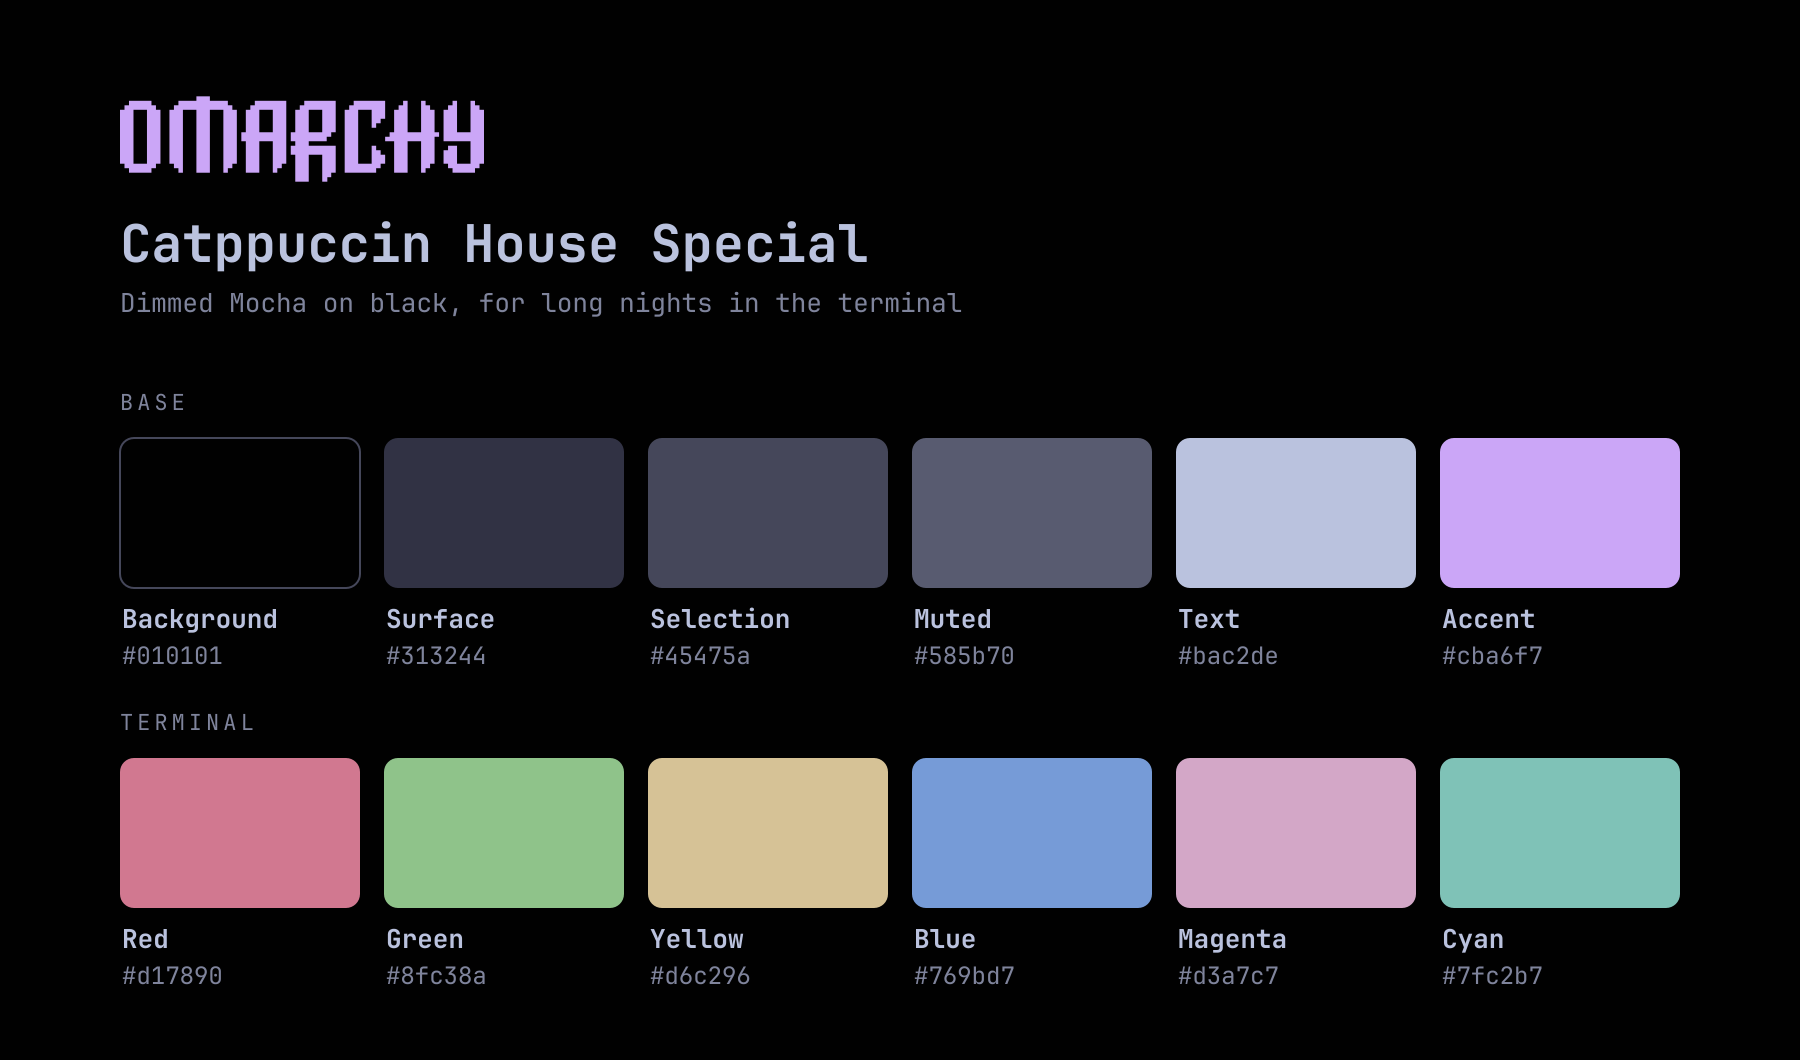
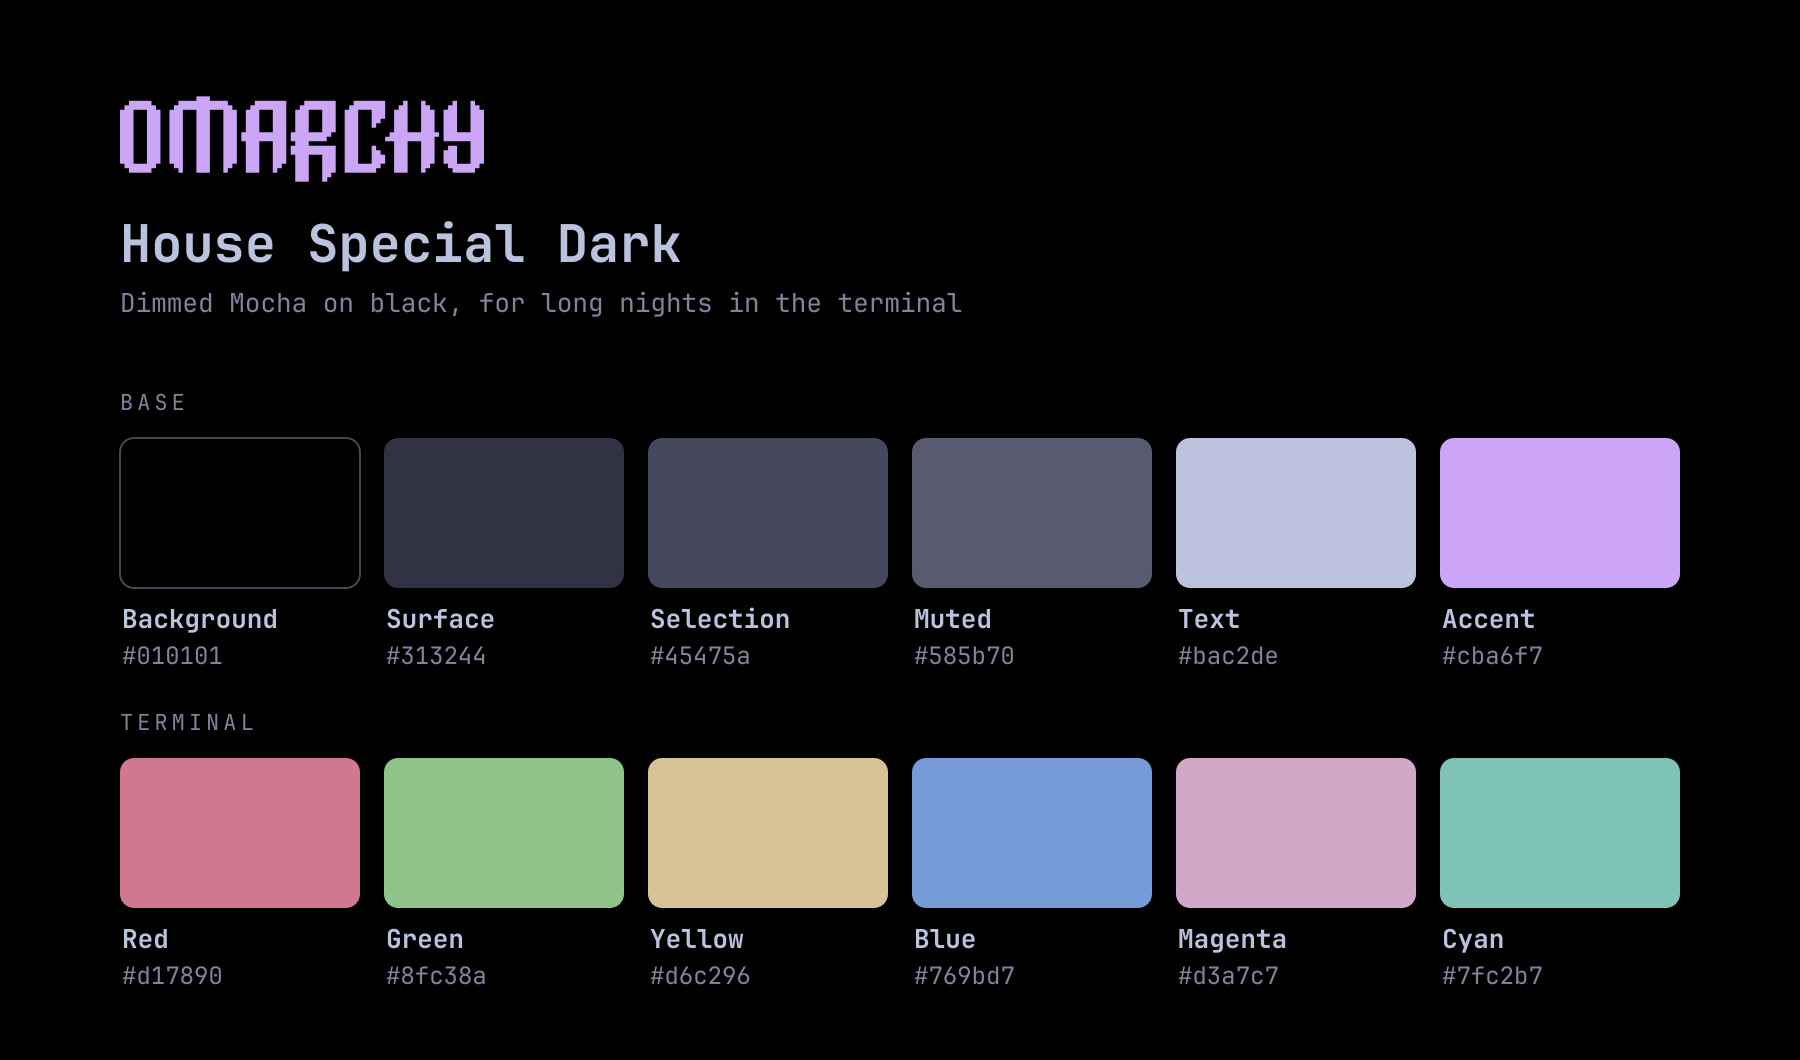
Rename to House Special Dark
The repo is now omarchy-house-special-dark-theme, so it installs as
house-special-dark next to its daytime sibling, House Special Light.

Changed region(s): [[0.0622, 0.1868, 0.4978, 0.2491]]

diff --git a/README.md b/README.md
@@ -1,8 +1,8 @@
-# Catppuccin House Special
+# House Special Dark
 
-A dark, dimmed Catppuccin Mocha theme for [Omarchy](https://omarchy.org), tuned for long terminal sessions at night.
+A dark, dimmed Catppuccin Mocha theme for [Omarchy](https://omarchy.org), tuned for long terminal sessions at night. Its daytime sibling is [House Special Light](https://github.com/stewartjarod/omarchy-house-special-light-theme).
 
-![Catppuccin House Special](backgrounds/5-digital-logo.jpg)
+![House Special Dark](backgrounds/5-digital-logo.jpg)
 
 ## What makes it special
 
@@ -15,12 +15,12 @@ A dark, dimmed Catppuccin Mocha theme for [Omarchy](https://omarchy.org), tuned 
 
 ## Colors
 
-![Catppuccin House Special colors](docs/palette.png)
+![House Special Dark colors](docs/palette.png)
 
 ## Install
 
 ```bash
-omarchy theme install https://github.com/stewartjarod/omarchy-catppuccin-house-special-theme
+omarchy theme install https://github.com/stewartjarod/omarchy-house-special-dark-theme
 ```
 
 ## Credits
